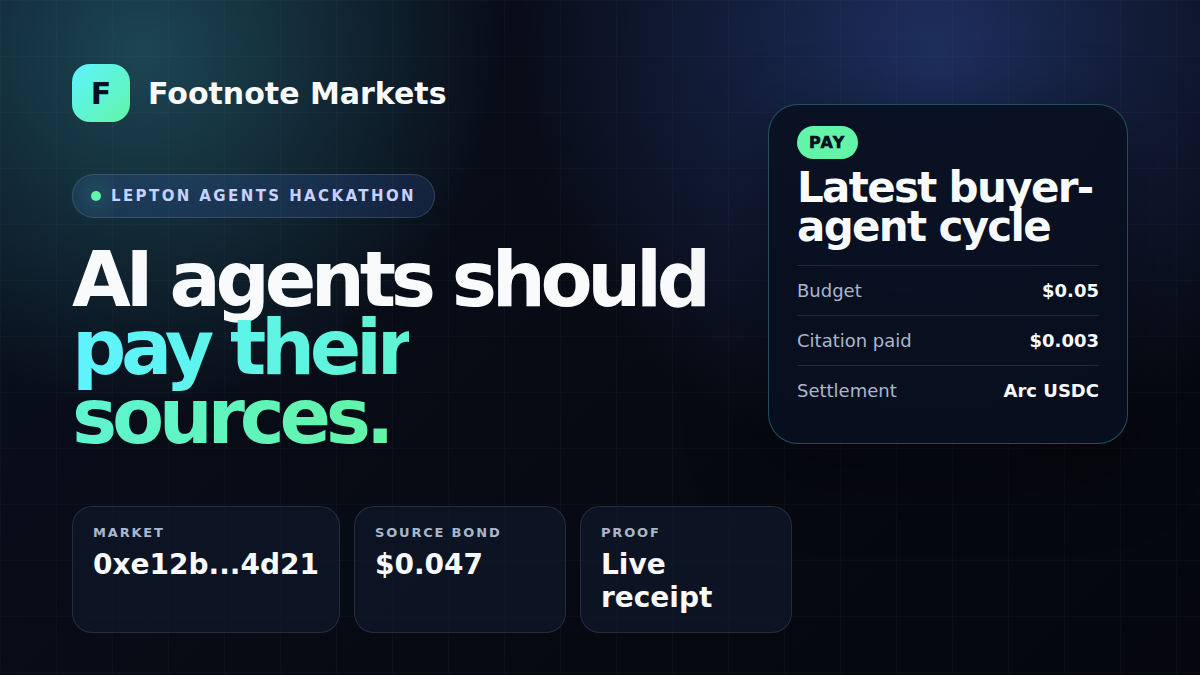
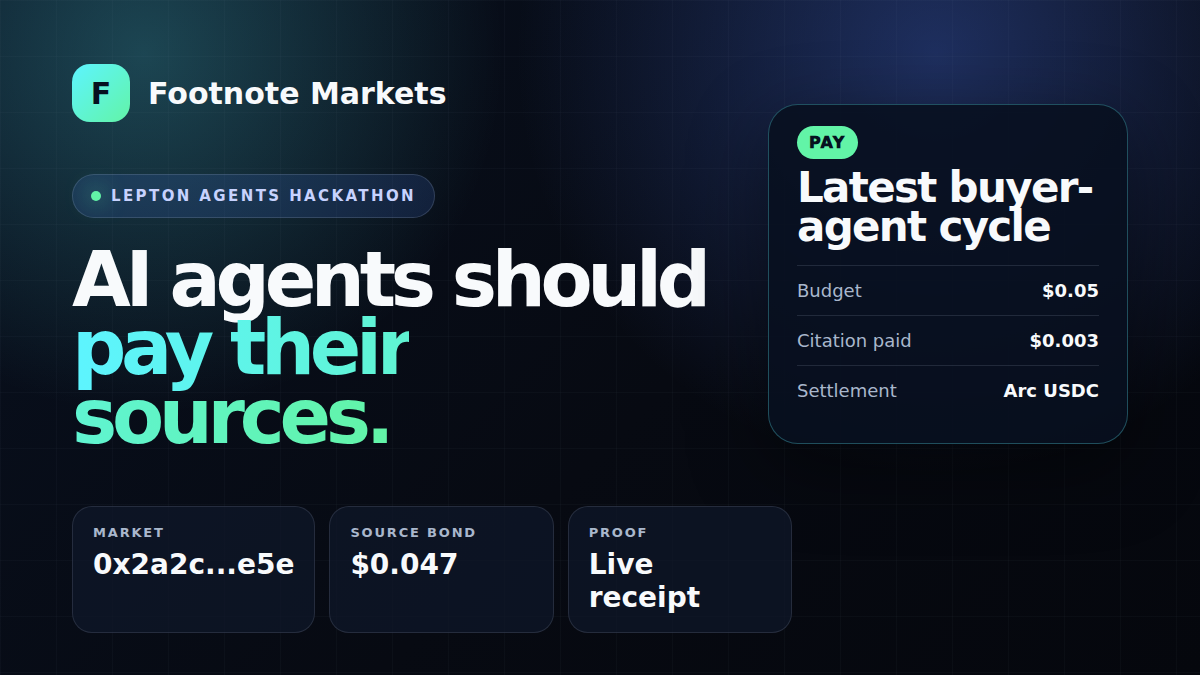
Harden Footnote agent accountability

Changed region(s): [[0.0925, 0.7778, 0.4317, 0.8711], [0.4625, 0.7778, 0.6167, 0.9022]]

diff --git a/web/app.js b/web/app.js
@@ -73,10 +73,10 @@ const live = {
   bond: 0.05,
   remainingBond: 0.047,
   txs: {
[8 lines of base64/hex data omitted]
   },
 };
 

diff --git a/web/index.html b/web/index.html
@@ -109,7 +109,7 @@
       </section>
 
       <section class="stats-grid" id="market">
-        <div class="stat-card"><small>Arc market</small><strong class="mono">0xe12b...4d21</strong></div>
+        <div class="stat-card"><small>Arc market</small><strong class="mono">0x2a2c...e5e</strong></div>
         <div class="stat-card"><small>Live citation</small><strong>$0.003</strong></div>
         <div class="stat-card"><small>Source bond</small><strong>$0.05</strong></div>
         <div class="stat-card"><small>Objective refund</small><strong>$0.003</strong></div>
@@ -237,7 +237,7 @@
           <article class="panel">
             <span class="label">02</span>
             <h3>Check Arc proof</h3>
-            <p>Market: <span class="mono break">0xe12bced9df4d1347a998499d1c2f559fa1594d21</span></p>
+            <p>Market: <span class="mono break">0x2a2cf1c9028cd4bc6afaa0b9d8401c40b4050e5e</span></p>
             <a class="btn" href="#receipts">Open receipts</a>
           </article>
           <article class="panel">

diff --git a/web/og.html b/web/og.html
@@ -205,7 +205,7 @@
         <div class="row"><span>Settlement</span><strong>Arc USDC</strong></div>
       </aside>
       <section class="metrics">
-        <div class="metric"><small>Market</small><strong>0xe12b...4d21</strong></div>
+        <div class="metric"><small>Market</small><strong>0x2a2c...e5e</strong></div>
         <div class="metric"><small>Source bond</small><strong>$0.047</strong></div>
         <div class="metric"><small>Proof</small><strong>Live receipt</strong></div>
       </section>

diff --git a/README.md b/README.md
@@ -11,23 +11,24 @@ Live product shell: https://footnote-markets.vercel.app
 This repository is in the first validation spike:
 
 1. Register a creator source with an optional credibility bond.
-2. Record a buyer agent PAY or REFUSE decision under a budget.
+2. Require an authorized, bonded buyer agent before it can record PAY or REFUSE decisions.
 3. Settle a tiny USDC citation payment.
-4. Trigger one objective challenge when a paid source hash changes.
-5. Refund the buyer from the source bond and update reputation.
+4. Trigger one V1 objective challenge when a paid source hash changes after citation.
+5. Refund the buyer from the source bond, slash the buyer agent's bond, and update source + agent reputation.
 
-Subjective quality never auto-slashes. Stake moves only on mechanically checkable failures; judgment changes reputation.
+Subjective quality never auto-slashes. V1 stake movement is limited to the mechanically checkable hash-change failure; broader objective failures can be added later with explicit attestations.
 
 ## Arc Testnet Status
 
 The first live spike passed on Arc testnet:
 
-- Market: `0xe12bced9df4d1347a998499d1c2f559fa1594d21`
+- Market: `0x2a2cf1c9028cd4bc6afaa0b9d8401c40b4050e5e`
 - Source registered with a `0.05` USDC bond.
 - One paid citation settled for `0.003` USDC.
 - One REFUSE receipt was recorded.
 - One objective hash-change challenge refunded `0.003` USDC from the bond.
 - Source reputation moved to `-10`; remaining bond is `0.047` USDC.
+- Current contract version requires a bonded authorized agent for PAY/REFUSE and reduces both source and agent reputation when a paid citation is objectively slashed.
 
 Full transaction record: `docs/live/spike-arc-testnet.json`.
 
@@ -37,7 +38,7 @@ The first autonomous buyer-agent cycle also passed on Arc testnet:
 - Budget: `0.05` USDC.
 - Decision: PAY source `1`.
 - Spend: `0.003` USDC.
[2 lines of base64/hex data omitted]
 
 Latest cycle record: `docs/live/latest-cycle.json`.
 